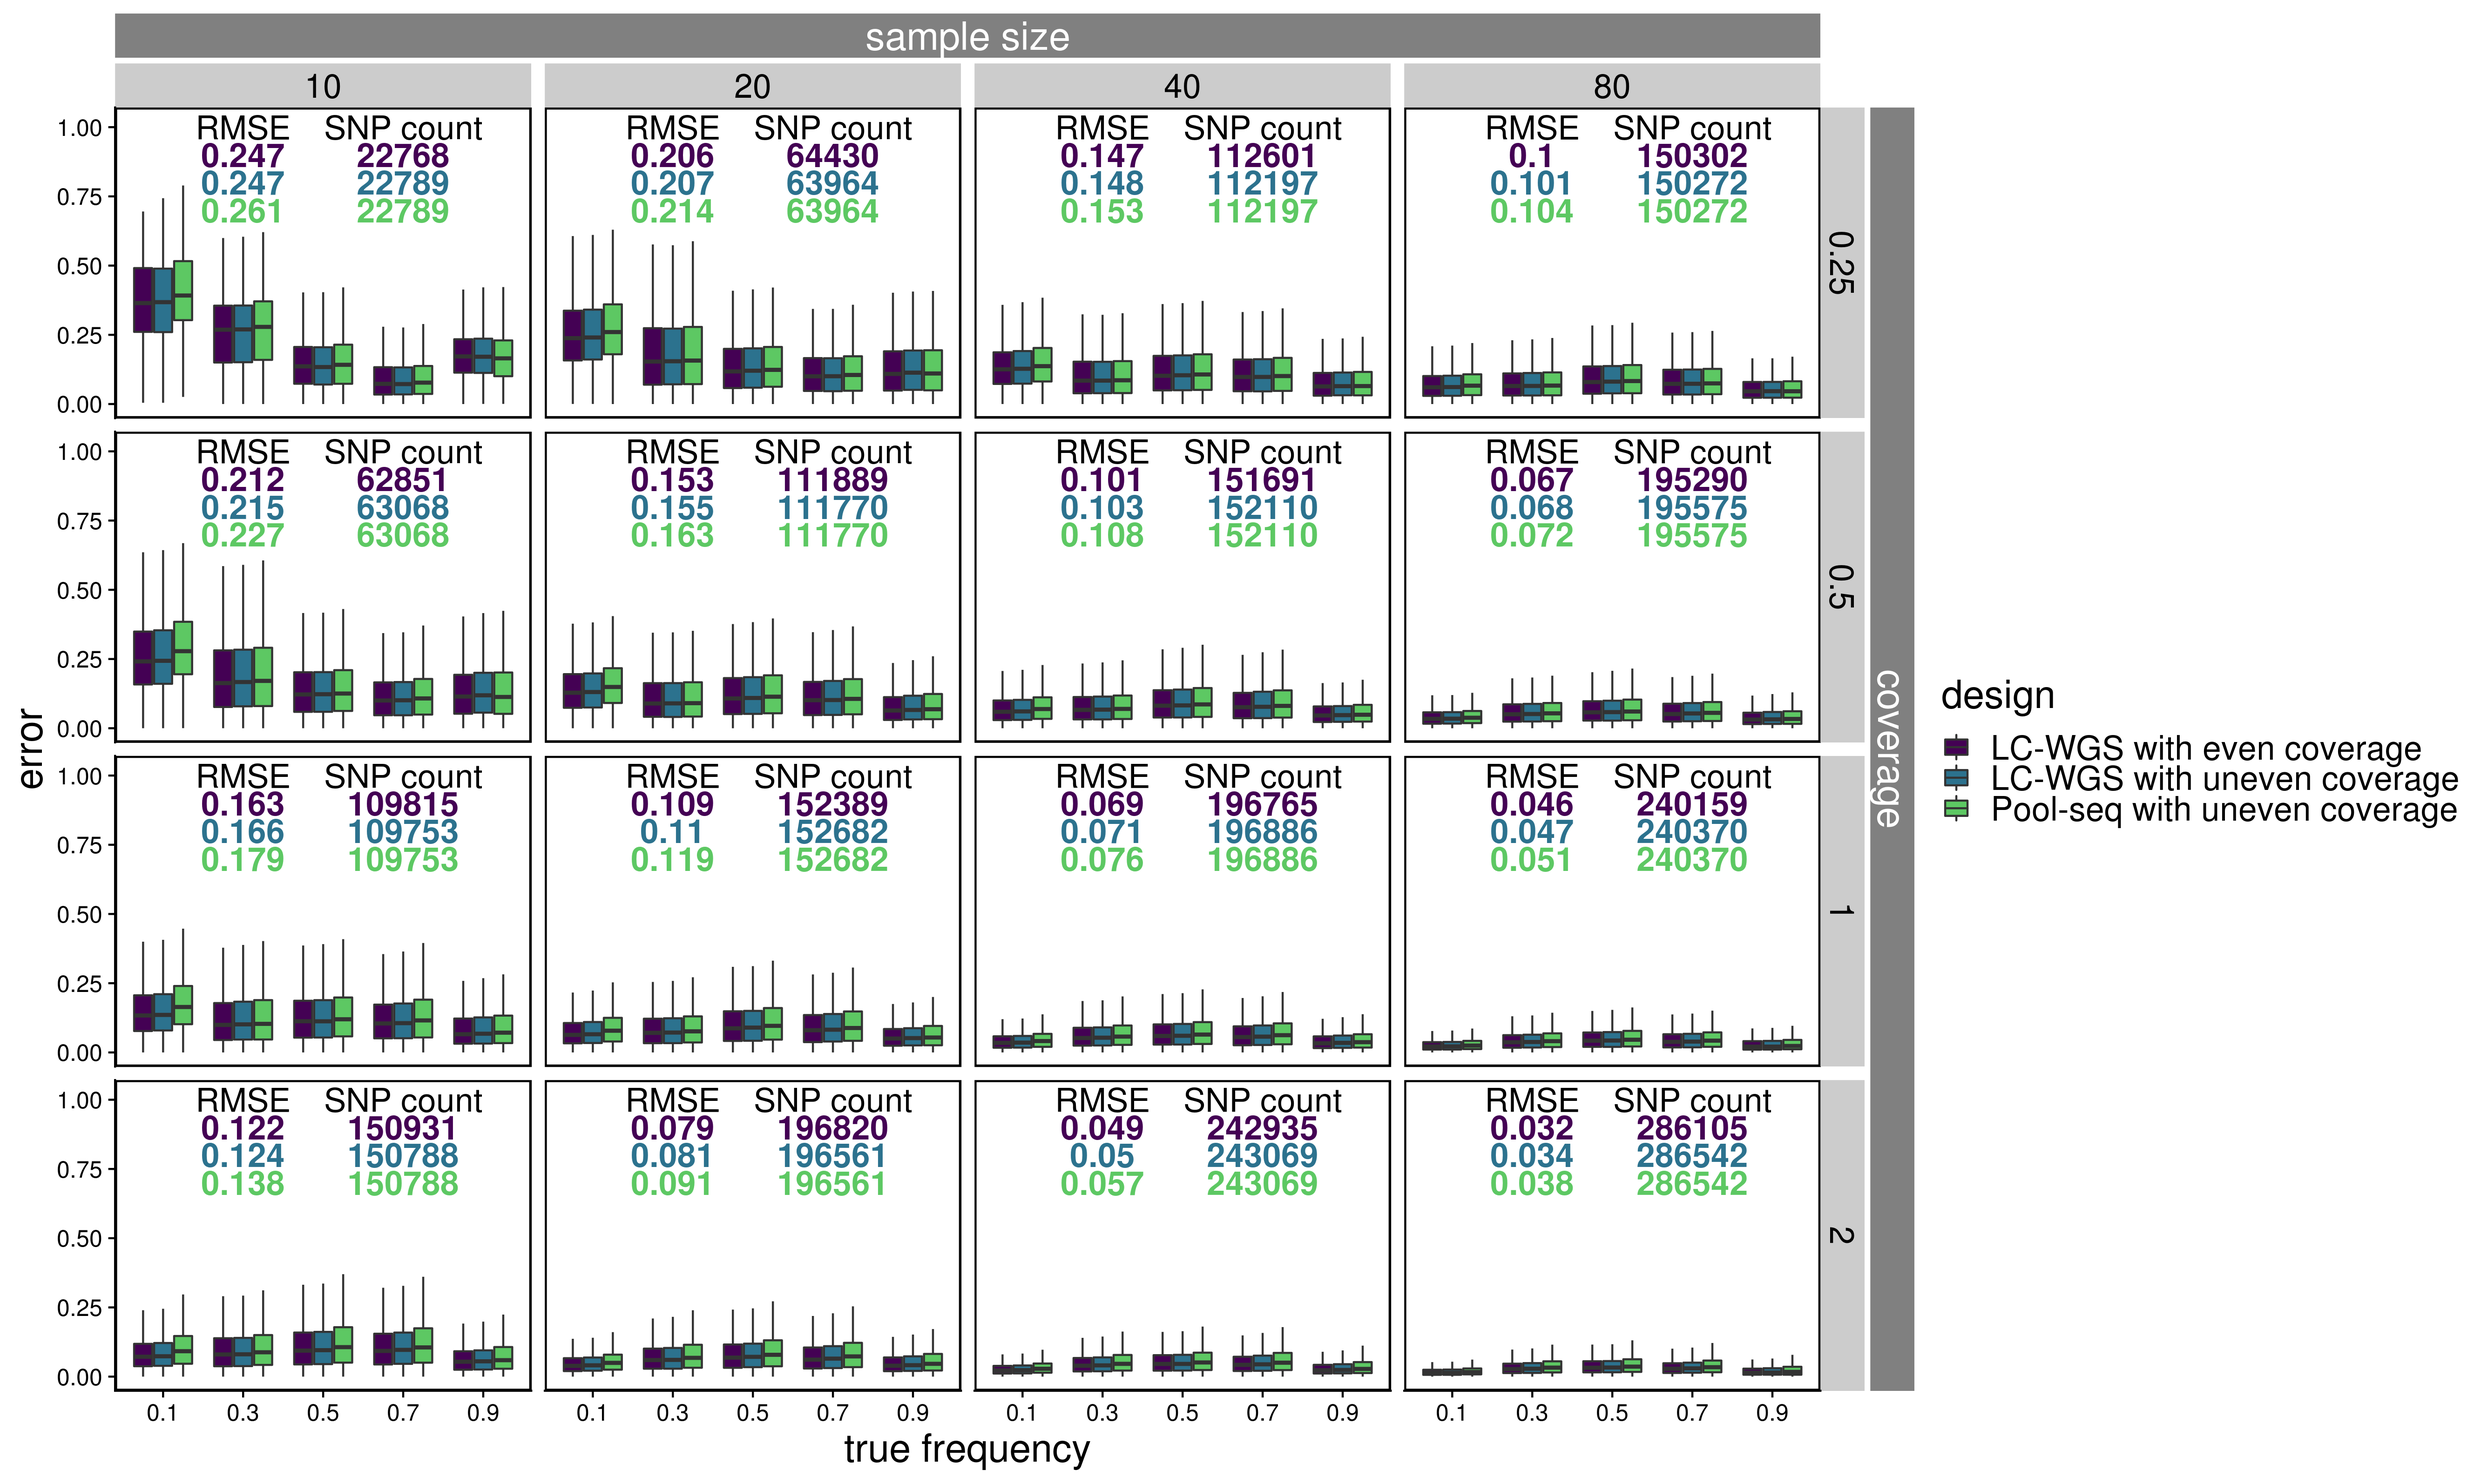
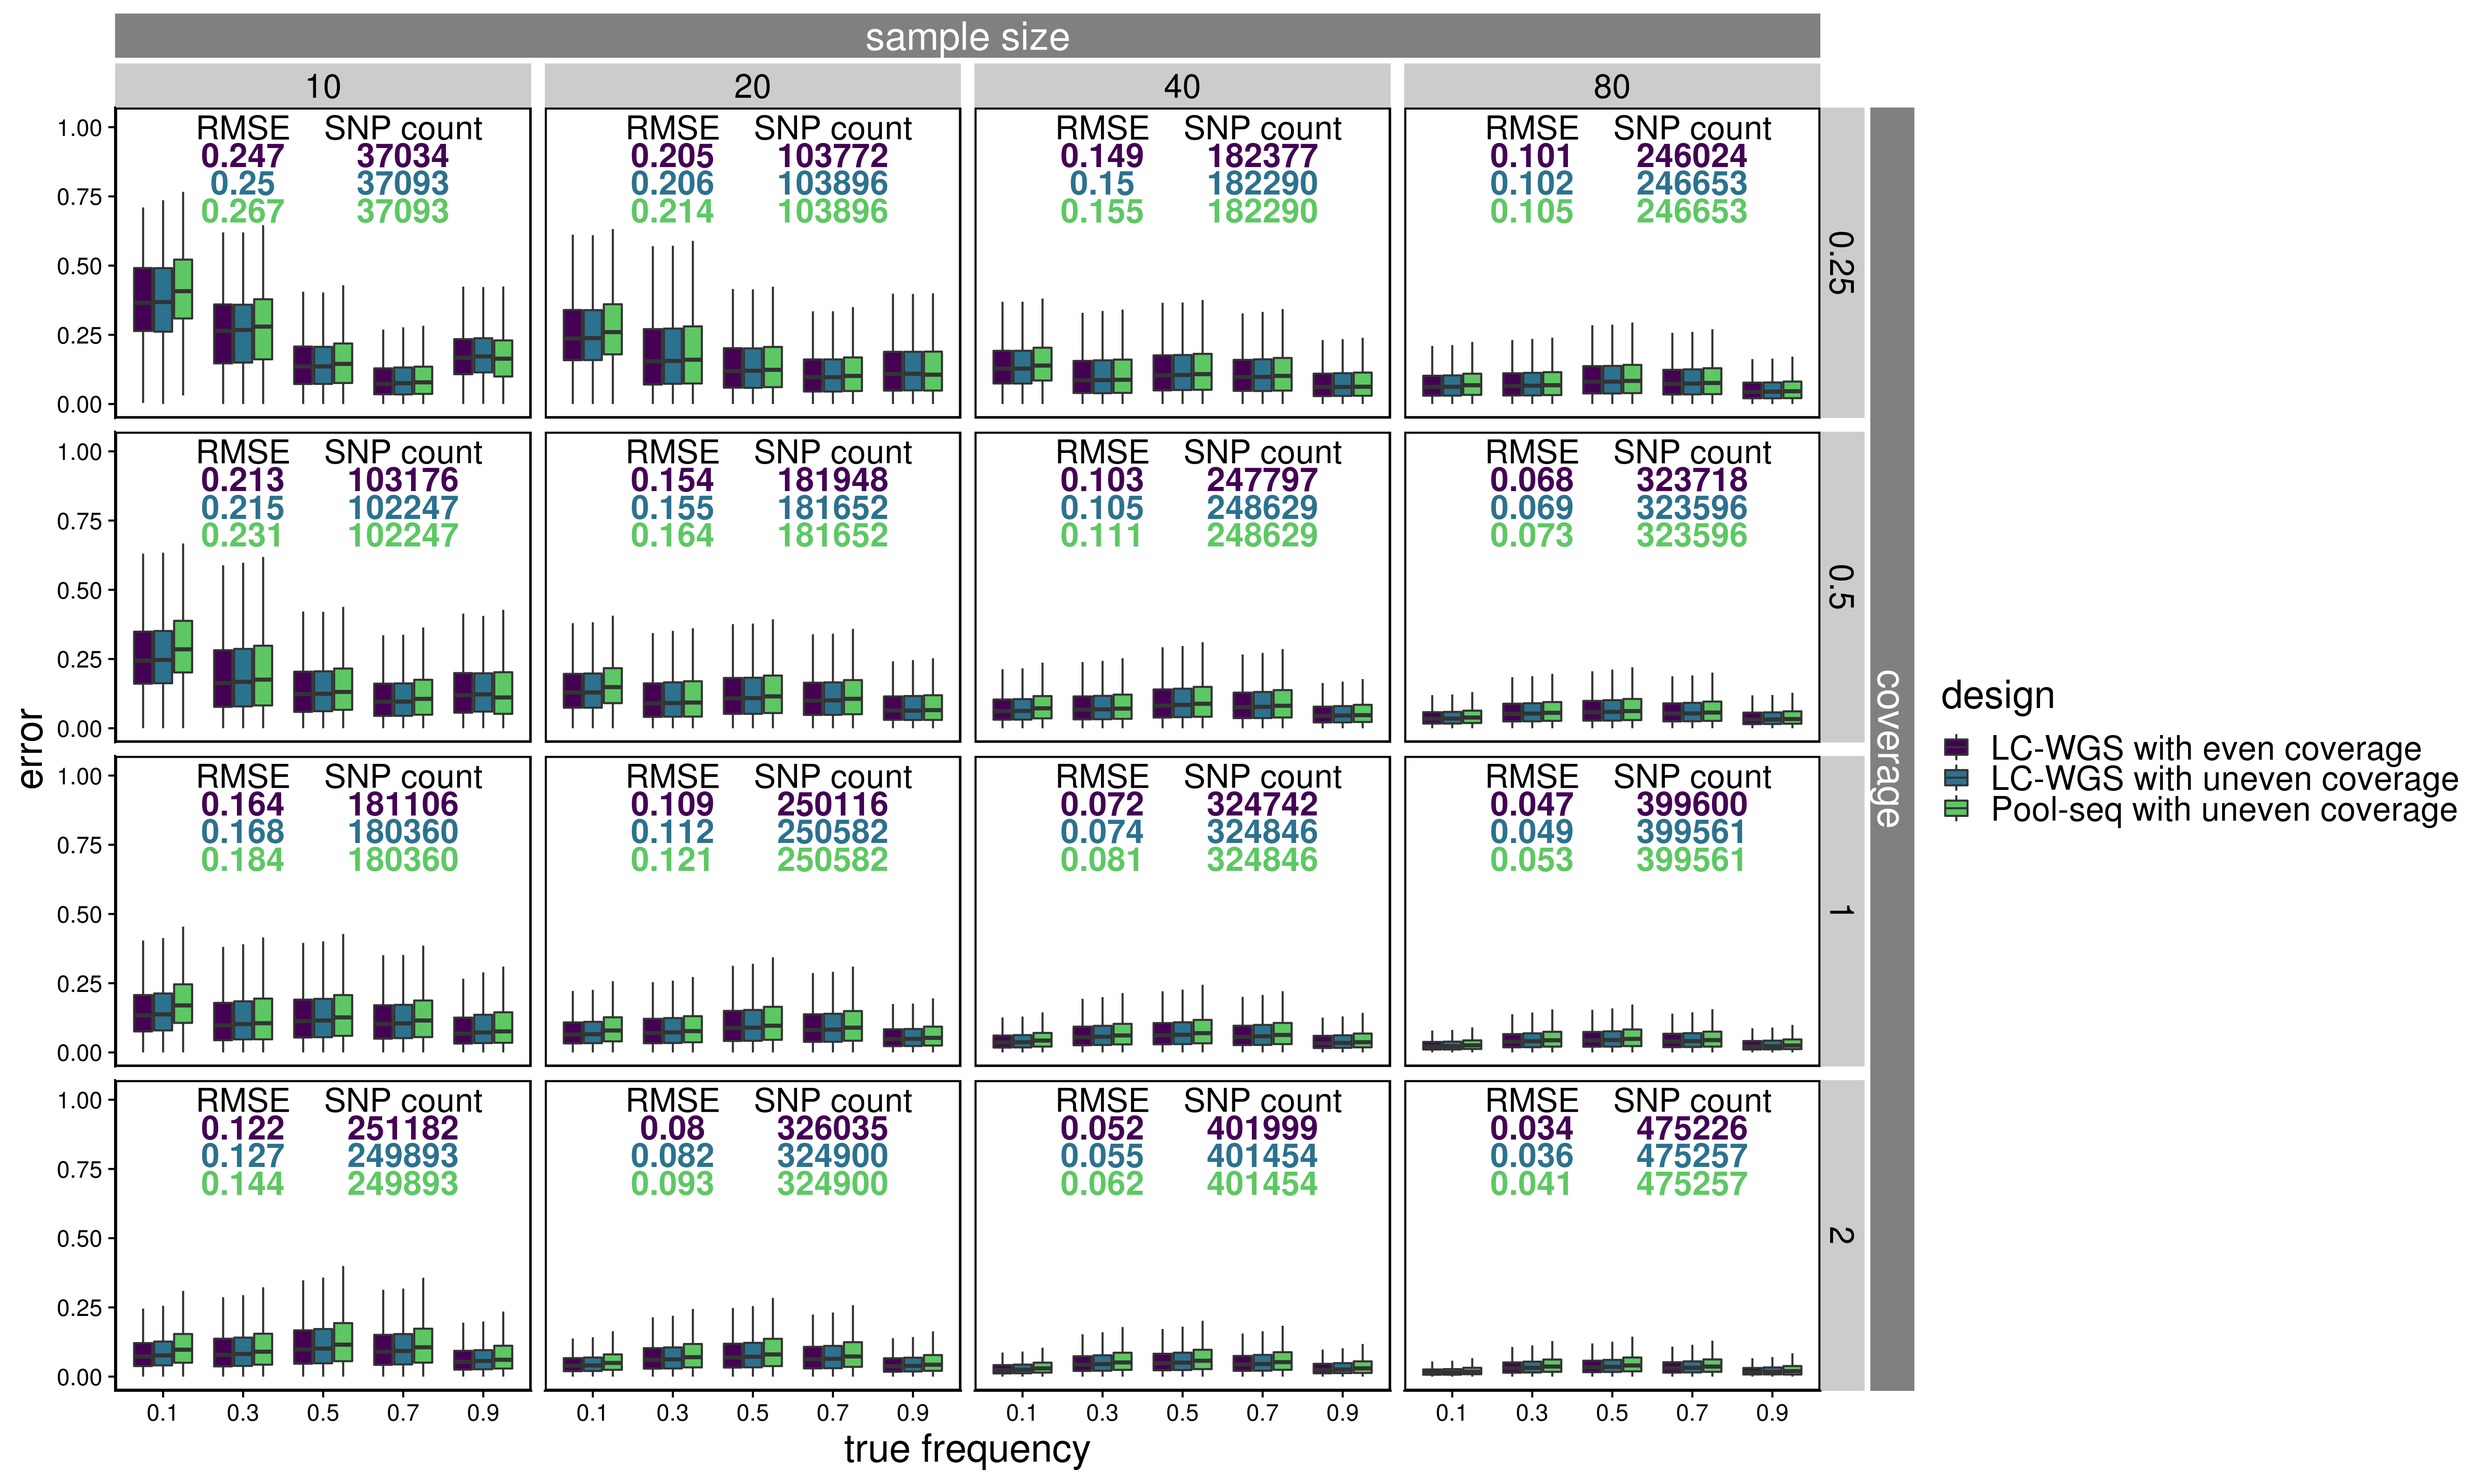
updated figures after rerunning the entire simulation with higher theta and lower LD

diff --git a/markdowns/figures.md b/markdowns/figures.md
@@ -171,7 +171,7 @@ get_ancestral <- function(x){
 get_mutations <- function(x){
   ## Read in the mutation file outputted by SLiM
   mutations <- read_delim(paste0(x, "slim/mutations.txt"), delim = " ", col_names = F, col_types = cols()) %>%
-    transmute(population=X4, type=X6, position=X7+1, base=X13, frequency=X12/2000) %>%
+    transmute(population=X4, type=X6, position=X7+1, base=X13, frequency=X12/1000) %>%
     left_join(ancestral, by="position") %>%
     group_by(population, type, position, ancestral, base) %>%
     summarise(frequency=sum(frequency)) %>%
@@ -261,9 +261,9 @@ count_to_maf <- function(ancestral_allele, totA, totC, totG, totT){
   maf <- minor_allele_count/sum(totA, totC, totG, totT)
   return(maf)
 }
-allele_count_to_fst <- function(x){
+allele_count_to_fst <- function(x, n_rad_tag){
   set.seed(1)
-  rad_intervals <- sample(1:(30000000-150), 250) %>%
+  rad_intervals <- sample(1:(30000000-150), n_rad_tag) %>%
     tibble(start=., stop=.+150) %>%
     arrange(by=start)
   i <- 1
@@ -299,8 +299,8 @@ allele_count_to_fst <- function(x){
 #### Read in files from SLiM simulation
 
 ``` r
-ancestral <- get_ancestral("../two_pop_sim_fixed_m2_pos_lower_s_lower_r/rep_1/")
-mutations_final <- get_mutations("../two_pop_sim_fixed_m2_pos_lower_s_lower_r/rep_1/")
+ancestral <- get_ancestral("../two_pop_sim_fixed_m2_pos/rep_1/")
+mutations_final <- get_mutations("../two_pop_sim_fixed_m2_pos/rep_1/")
 mutations_final_m1 <- filter(mutations_final, type=="m1")
 mutations_final_m2 <- filter(mutations_final, type=="m2")
 ```
@@ -308,20 +308,21 @@ mutations_final_m2 <- filter(mutations_final, type=="m2")
 #### Read in files for LC-WGS
 
 ``` r
-fst_n_ind_final <- get_estimated_fst("../two_pop_sim_fixed_m2_pos_lower_s_lower_r/rep_1/")
+fst_n_ind_final <- get_estimated_fst("../two_pop_sim_fixed_m2_pos/rep_1/")
 fst_plot <- filter(fst_n_ind_final, coverage < 4, sample_size > 5, sample_size < 160) %>%
   fixed_windowed_fst(1000) %>%
   ggplot(aes(x=position/10^6, y=fst)) +
   geom_point(alpha=0.8, size=0.15) +
   geom_point(data=mutations_final_m2, aes(x=position/10^6, y=0.75), color="red", size=2, shape=16) +
   ylim(NA, 0.75) +
-  labs(y = expression(F[ST])) + 
+  labs(x = "position (in Mbp)", y = expression(F[ST])) + 
   facet_grid(coverage~sample_size) +
   theme_cowplot() +
-  theme(text = element_text(size=20),
-        axis.title.x = element_blank(),
-        axis.text.x = element_blank(),
-        axis.ticks.x = element_blank())
+  theme(text = element_text(size=20)
+        #, axis.title.x = element_blank(),
+        #axis.text.x = element_blank(),
+        #axis.ticks.x = element_blank()
+        )
 
 fst_plot_grob <- ggplotGrob(fst_plot)
 
@@ -336,33 +337,56 @@ fst_plot_new <- gtable_add_cols(fst_plot_grob, unit(fst_plot_grob$widths[[12]], 
                      7, 5, 7, 11, name = paste(runif(2))) %>%
   gtable_add_rows(unit(1/8, "line"), 7)
 
-ggsave("../figures/two_pop_sim_fixed_m2_pos_lower_s_lower_r_fixed_windowed_fst.png", fst_plot_new, width = 15, height = 7, units = "in", pointsize = 20)
+ggsave("../figures/two_pop_sim_fixed_m2_pos_windowed_fst.png", fst_plot_new, width = 15, height = 7, units = "in", pointsize = 20)
 ```
 
 ``` r
-include_graphics("../figures/two_pop_sim_fixed_m2_pos_lower_s_lower_r_fixed_windowed_fst.png")
+include_graphics("../figures/two_pop_sim_fixed_m2_pos_windowed_fst.png")
 ```
 
-<img src="../figures/two_pop_sim_fixed_m2_pos_lower_s_lower_r_fixed_windowed_fst.png" width="4500" />
+<img src="../figures/two_pop_sim_fixed_m2_pos_windowed_fst.png" width="4500" />
 
-#### Read in files for pooled seq
+#### Read in files for RAD seq
 
 ``` r
-maf_final <- allele_count_to_fst("../two_pop_sim_fixed_m2_pos_lower_s_lower_r/rep_1/")
-fst_plot_poolseq <-mutate(maf_final, coverage="RAD") %>%
-  filter(sample_size > 5, sample_size < 160) %>%
+i <- 1
+for (n in c(1,2,4,8,16,32)*120){
+  maf <- allele_count_to_fst("../two_pop_sim_fixed_m2_pos_lower_s_lower_r/rep_1/", n_rad_tag = n) %>%
+  mutate(n_rad_tag = n)
+  if (i == 1){
+    maf_final <- maf
+  } else {
+    maf_final <- bind_rows(maf_final, maf)
+  }
+  i <- i + 1
+}
+fst_plot_radseq <- maf_final %>%
+  filter(sample_size > 5, sample_size < 160, n_rad_tag < 1000) %>%
+  mutate(n_rad_tag = n_rad_tag/30) %>%
   ggplot(aes(x=position/10^6, y=fst)) +
   geom_point(alpha=0.8, size=1) +
   geom_point(data=mutations_final_m2, aes(x=position/10^6, y=0.75), color="red", size=2, shape=16) +
-  facet_grid(coverage~sample_size) +
+  facet_grid(n_rad_tag~sample_size) +
   labs(x = "position (in Mbp)", y = expression(F[ST])) + 
   theme_cowplot() +
   theme(text = element_text(size=20))
-ggsave("../figures/two_pop_sim_fixed_m2_pos_lower_s_lower_r_fixed_poolseq_windowed_fst.png", fst_plot_poolseq, width = 15-0.315, height = 2.5, units = "in", pointsize = 20)
+fst_plot_grob <- ggplotGrob(fst_plot_radseq)
+
+fst_plot_new <- gtable_add_cols(fst_plot_grob, unit(fst_plot_grob$widths[[12]], 'cm'), 13)  %>%
+  gtable_add_grob(list(rectGrob(gp = gpar(col = NA, fill = gray(0.5))),
+                       textGrob("number of RAD tags per Mbp", rot = -90, gp = gpar(col = gray(1)))),
+                  8, 14, 14, 14, name = paste(runif(2))) %>%
+  gtable_add_cols(unit(1/8, "line"), 13) %>%
+  gtable_add_rows(unit(fst_plot_grob$heights[[7]], 'cm'), 6) %>%
+  gtable_add_grob(list(rectGrob(gp = gpar(col = NA, fill = gray(0.5))),
+                          textGrob("sample size", gp = gpar(col = gray(1)))),
+                     7, 5, 7, 11, name = paste(runif(2))) %>%
+  gtable_add_rows(unit(1/8, "line"), 7)
+ggsave("../figures/two_pop_sim_fixed_m2_pos_rad_seq_windowed_fst.png", fst_plot_new, width = 15, height = 7, units = "in", pointsize = 20)
 ```
 
 ``` r
-include_graphics("../figures/two_pop_sim_fixed_m2_pos_lower_s_lower_r_fixed_poolseq_windowed_fst.png")
+include_graphics("../figures/two_pop_sim_fixed_m2_pos_rad_seq_windowed_fst.png")
 ```
 
-<img src="../figures/two_pop_sim_fixed_m2_pos_lower_s_lower_r_fixed_poolseq_windowed_fst.png" width="4405" />
+<img src="../figures/two_pop_sim_fixed_m2_pos_rad_seq_windowed_fst.png" width="4500" />
